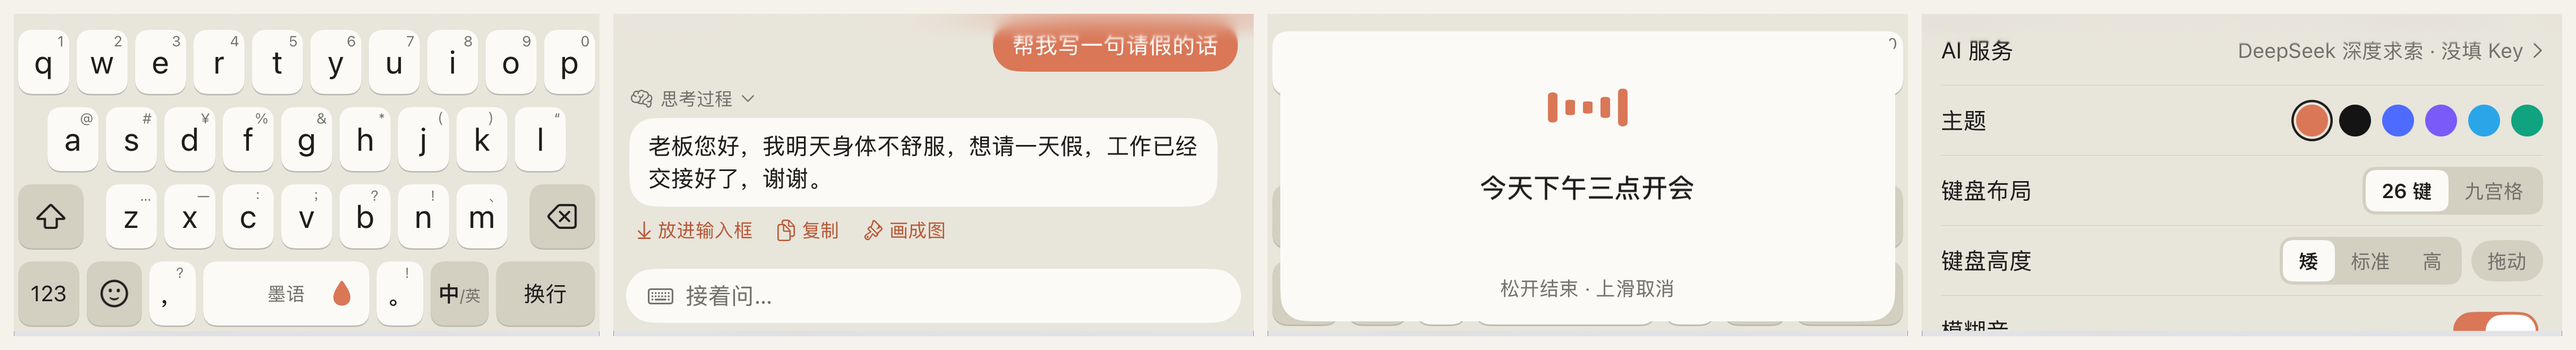
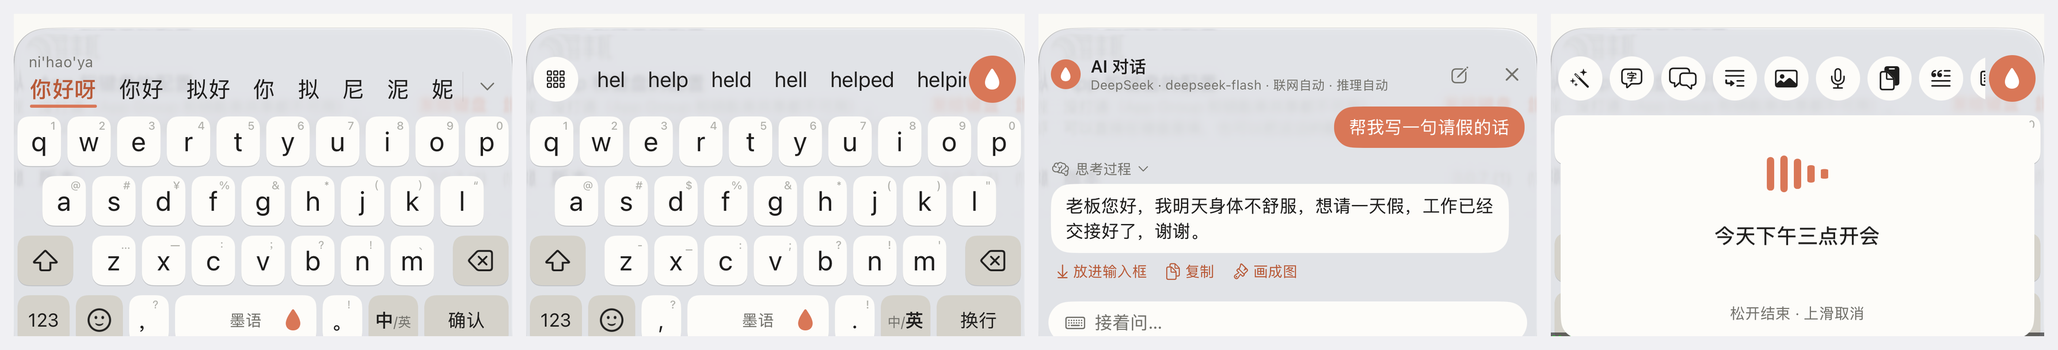
docs: README 换上 3.0.7 的模拟器截图

diff --git a/README.en.md b/README.en.md
@@ -17,9 +17,9 @@ No backend. Your API keys stay in the iPhone Keychain, and requests go straight 
 
 </div>
 
-![Moyu running in the iOS 27 simulator: QWERTY layout, AI chat, hold-space voice input, keyboard settings](docs/images/showcase.png)
+![Moyu running in the iOS 27 simulator: Chinese input, English completion, AI chat, hold-space voice input](docs/images/showcase.png)
 
-<sub>These screenshots were captured by CI after it opened the Moyu keyboard in the iOS 27 simulator. Left to right: QWERTY layout, AI chat inside the keyboard, hold-space-to-talk, keyboard settings. The chat and voice text are demo content filled in by the test script.</sub>
+<sub>These screenshots were captured by CI after it opened the Moyu keyboard in the iOS 27 simulator. Left to right: typing Chinese (nihaoya), English completion (hel), AI chat inside the keyboard, hold-space-to-talk. The chat and voice text are demo content filled in by the test script.</sub>
 
 ---
 

diff --git a/README.md b/README.md
@@ -17,9 +17,9 @@
 
 </div>
 
-![墨语在 iOS 27 模拟器里的截图：26 键、AI 对话、长按空格说话、键盘设置](docs/images/showcase.png)
+![墨语在 iOS 27 模拟器里的截图：打中文、英文补全、AI 对话、长按空格说话](docs/images/showcase.png)
 
-<sub>上图是 CI 在 iOS 27 模拟器里真的弹出墨语键盘后自动截的图，从左到右：26 键、键盘里的 AI 对话、长按空格说话、键盘设置。对话和语音里的文字是测试脚本填的演示内容。</sub>
+<sub>上图是 CI 在 iOS 27 模拟器里真的弹出墨语键盘后自动截的图，从左到右：打中文（nihaoya）、英文补全（hel）、键盘里的 AI 对话、长按空格说话。对话和语音里的文字是测试脚本填的演示内容。</sub>
 
 ---
 
